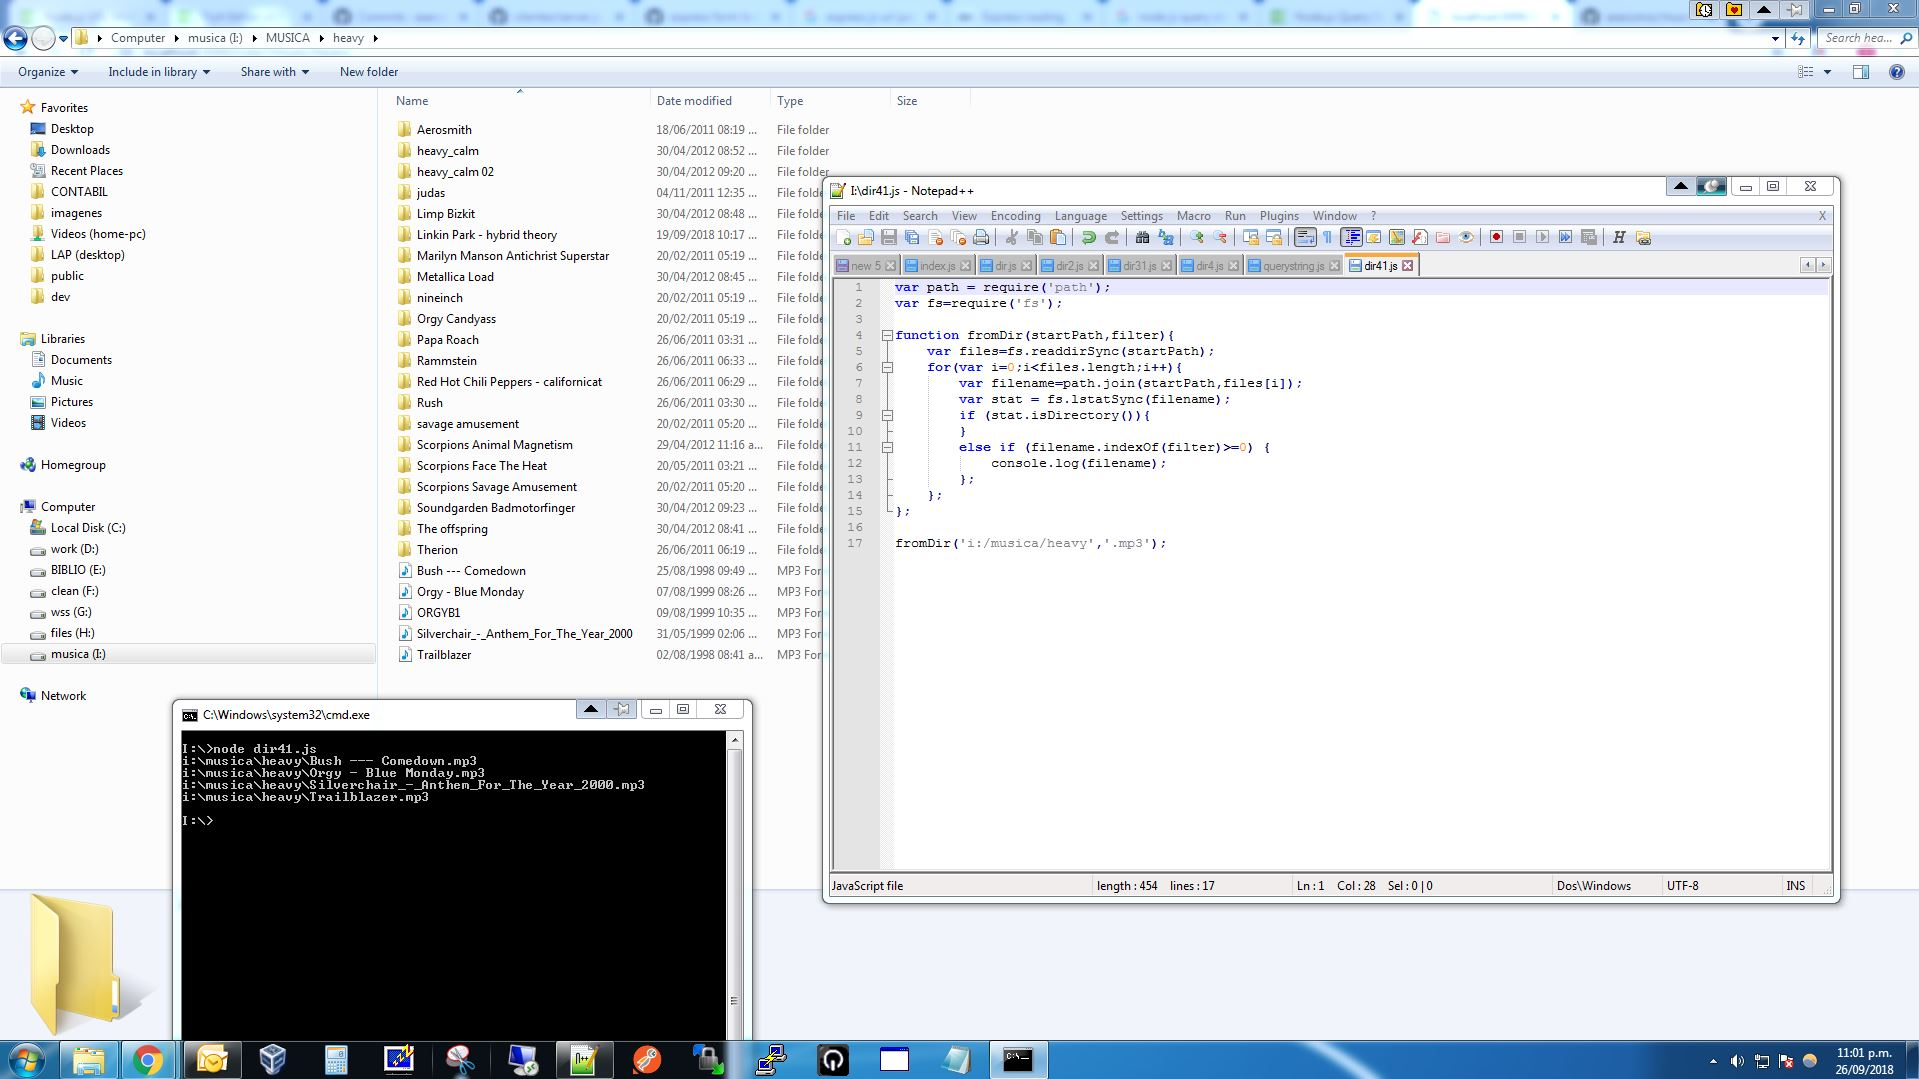
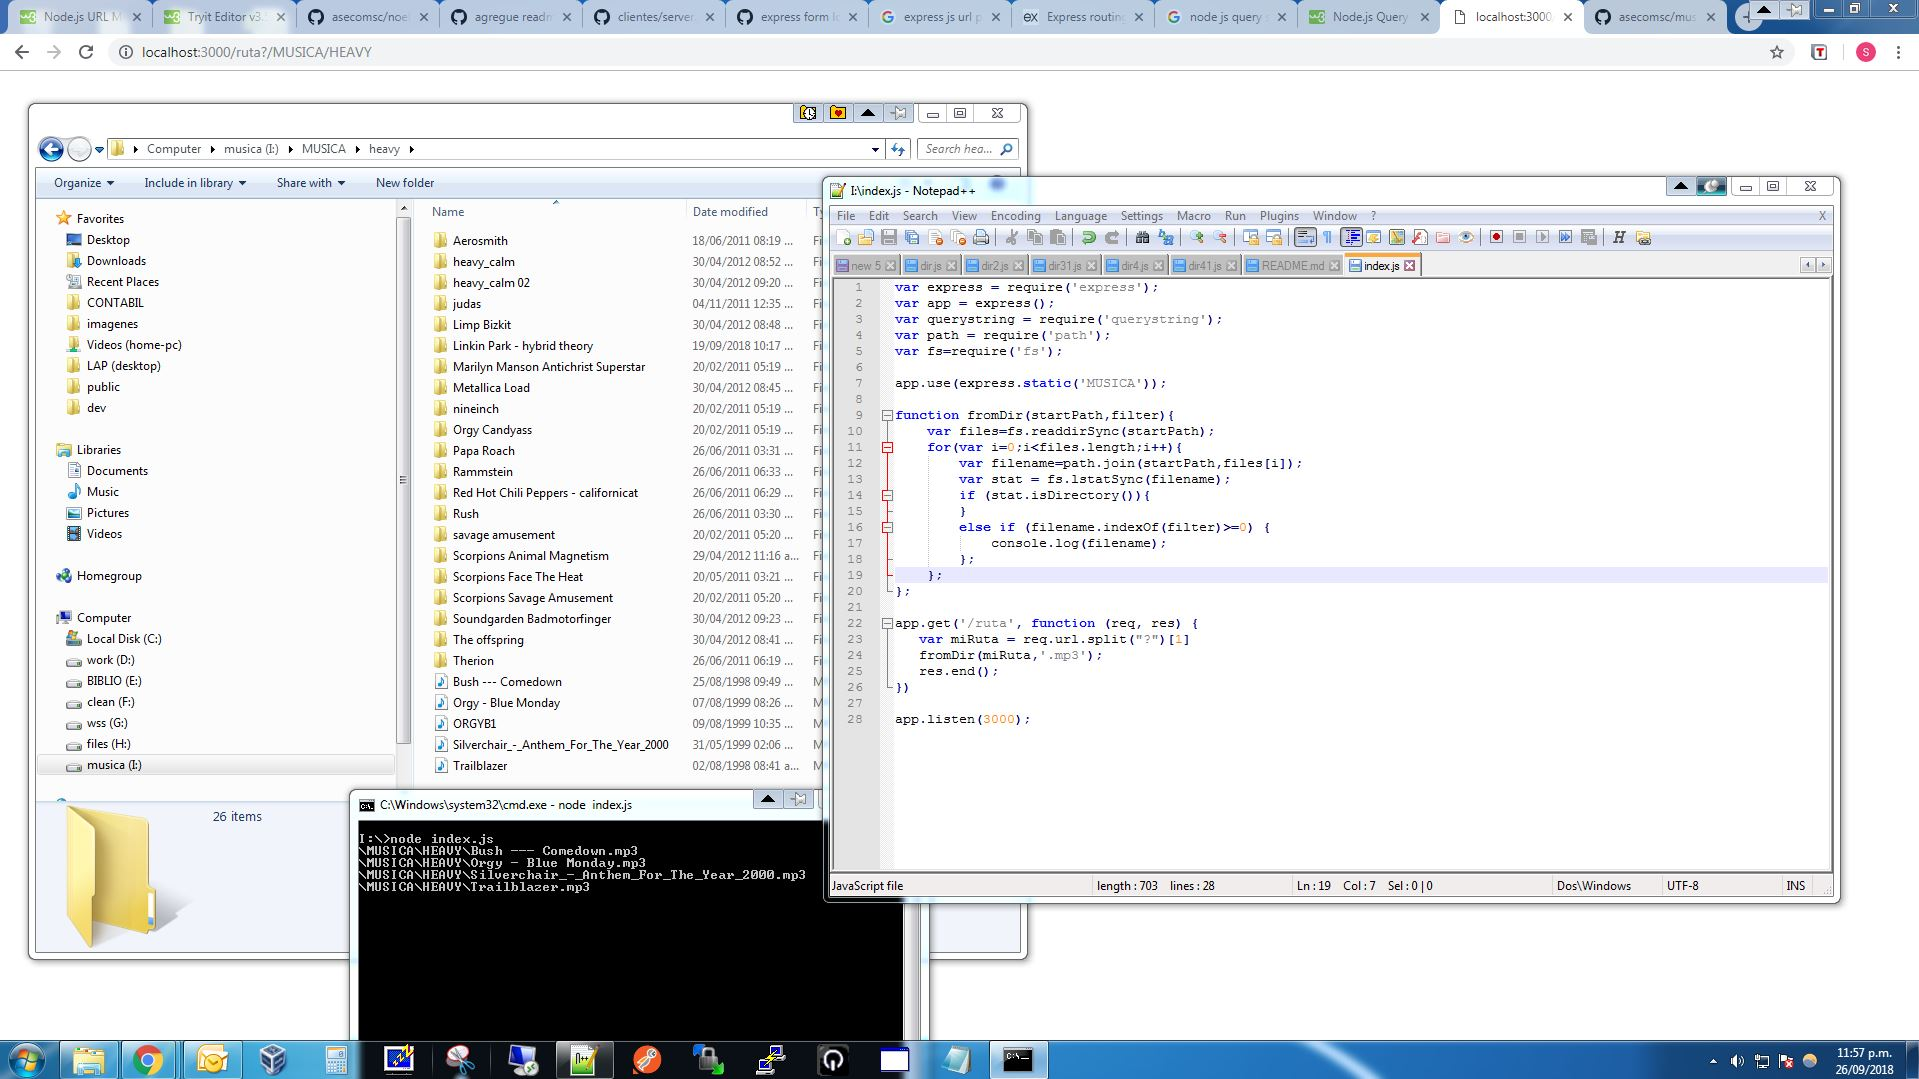
index.js recibe DIRPATH en QUERYSTRING del URL

diff --git a/index.js b/index.js
@@ -1,4 +1,28 @@
 var express = require('express');
 var app = express();
+var querystring = require('querystring');
+var path = require('path');
+var fs=require('fs');
+
 app.use(express.static('MUSICA'));
+
+function fromDir(startPath,filter){
+    var files=fs.readdirSync(startPath);
+    for(var i=0;i<files.length;i++){
+		var filename=path.join(startPath,files[i]);
+        var stat = fs.lstatSync(filename);
+        if (stat.isDirectory()){
+        }
+        else if (filename.indexOf(filter)>=0) {
+            console.log(filename);
+        };		
+    };
+};
+
+app.get('/ruta', function (req, res) {
+   var miRuta = req.url.split("?")[1]
+   fromDir(miRuta,'.mp3');
+   res.end();
+})
+
 app.listen(3000);

diff --git a/README.md b/README.md
@@ -1,5 +1,6 @@
 ## 2018-09-26  v1.1
-* dir41.js, 
+* indexjs, integra dir41.js y querystring.js
+* dir41.js, show mp3 files in directory
 * querystring.js, route get querystring
 
 ## 2018-09-25  v1
